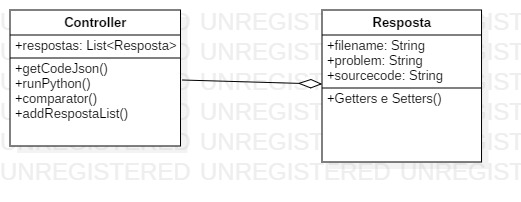
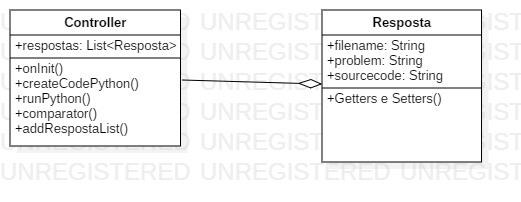
Gerando arquivos, apartir de Json

Changed region(s): [[0.0307, 0.297, 0.2764, 0.6832]]

diff --git a/projetofinal/src/main/java/com/pippo/fatec/projetofinal/EventApplication.java b/projetofinal/src/main/java/com/pippo/fatec/projetofinal/EventApplication.java
@@ -1,6 +1,10 @@
 package com.pippo.fatec.projetofinal;
 
 
+import java.io.FileWriter;
+import java.io.IOException;
+import java.io.PrintWriter;
+
 import org.json.JSONException;
 import org.json.JSONObject;
 
@@ -19,12 +23,18 @@ public class EventApplication extends Application {
 		 POST("/loadjson", routeContext -> {
 			 final Request req = routeContext.json().getRequest();
 			
-			 routeContext.json().send(getCodeJson(req));
+			// routeContext.json().send(getCodeJson(req));
+			 try {
+				createCodePython(req);
+			} catch (IOException e) {
+				// TODO Auto-generated catch block
+				e.printStackTrace();
+			}
 	      });
 
 	}
 	
-	private Resposta getCodeJson(Request request) {
+	private void createCodePython(Request request) throws IOException {
 
 		try {
 			JSONObject json;
@@ -33,15 +43,20 @@ public class EventApplication extends Application {
 			String problem = json.getString("problem");
 			String sourceCode = json.getString("sourcecode");
 			
-			return new Resposta(filename, problem, sourceCode);
-		
+			FileWriter filePython = new FileWriter("d:\\" + filename);
+			PrintWriter filePythonWriter = new PrintWriter(filePython);
+			
+			filePythonWriter.printf(sourceCode);
+			filePythonWriter.close();
 			
 		} catch (JSONException e) {
 			// TODO Auto-generated catch block
 			e.printStackTrace();
 		}
-		return null;
+		
 		
 	}
+	
+	
 	
 }
